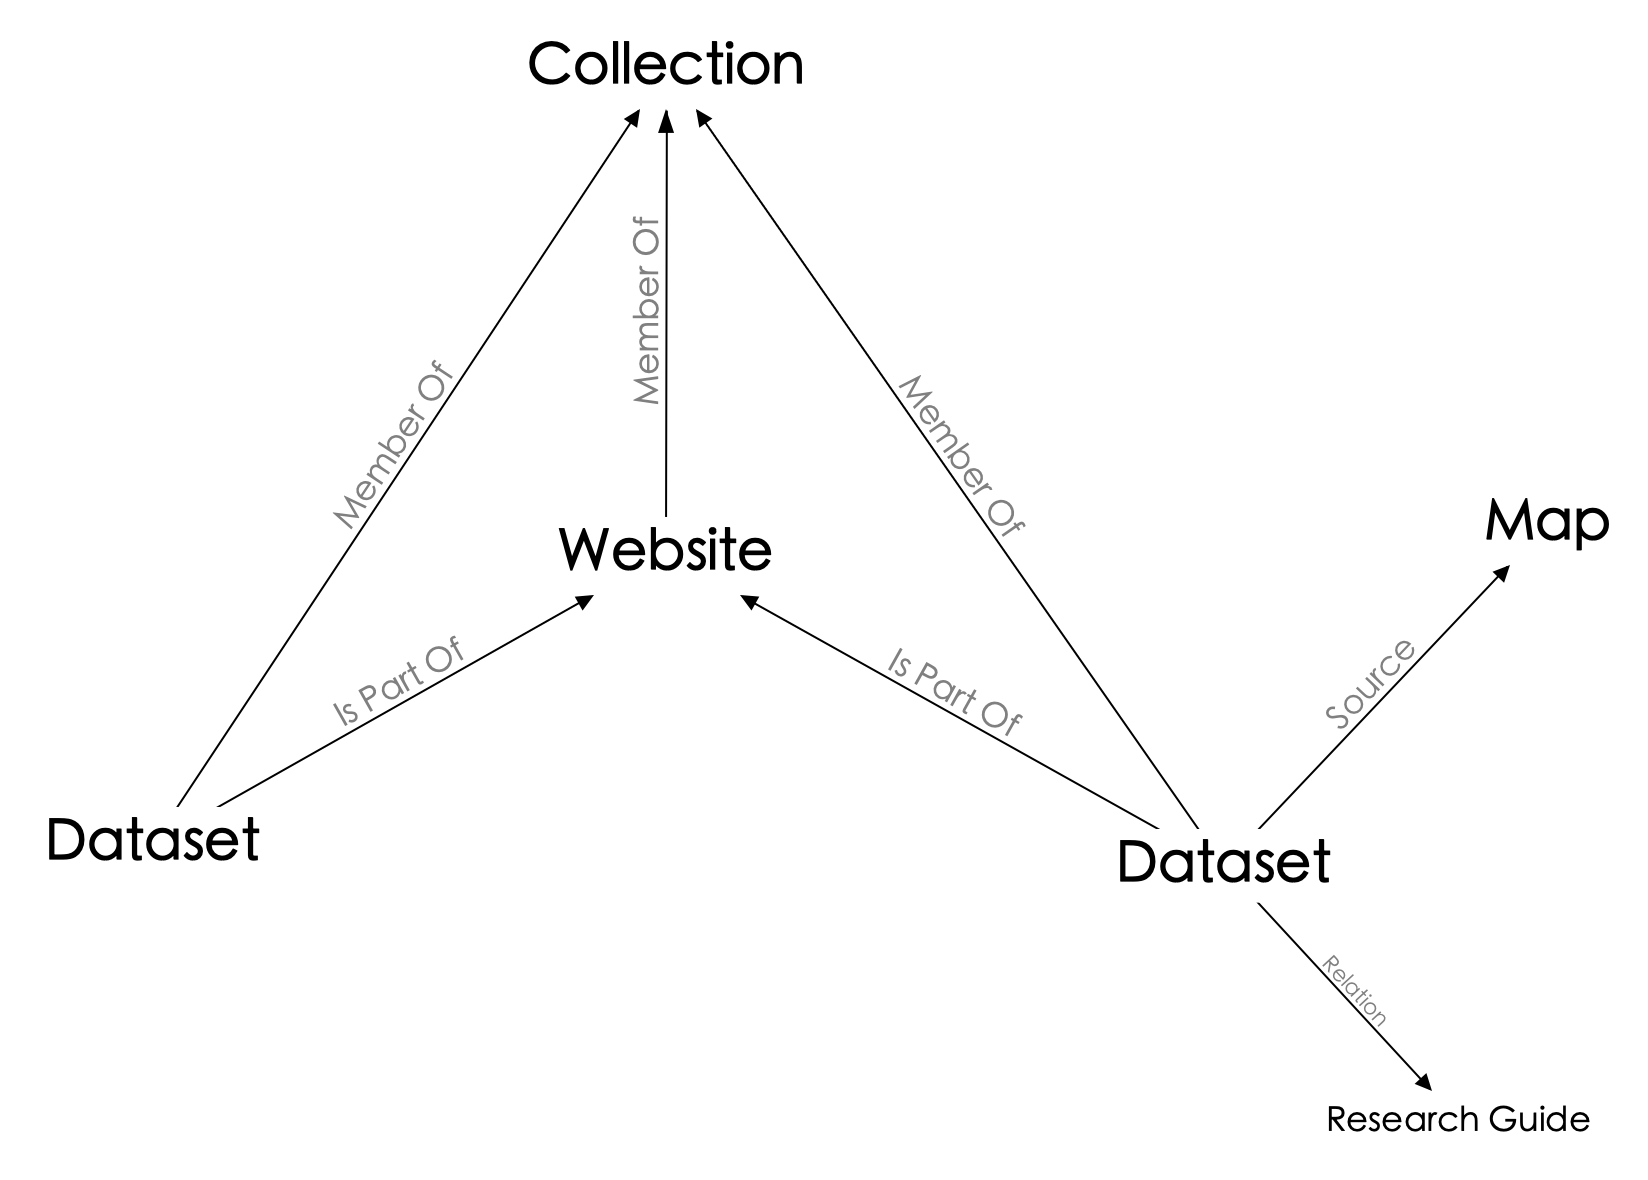
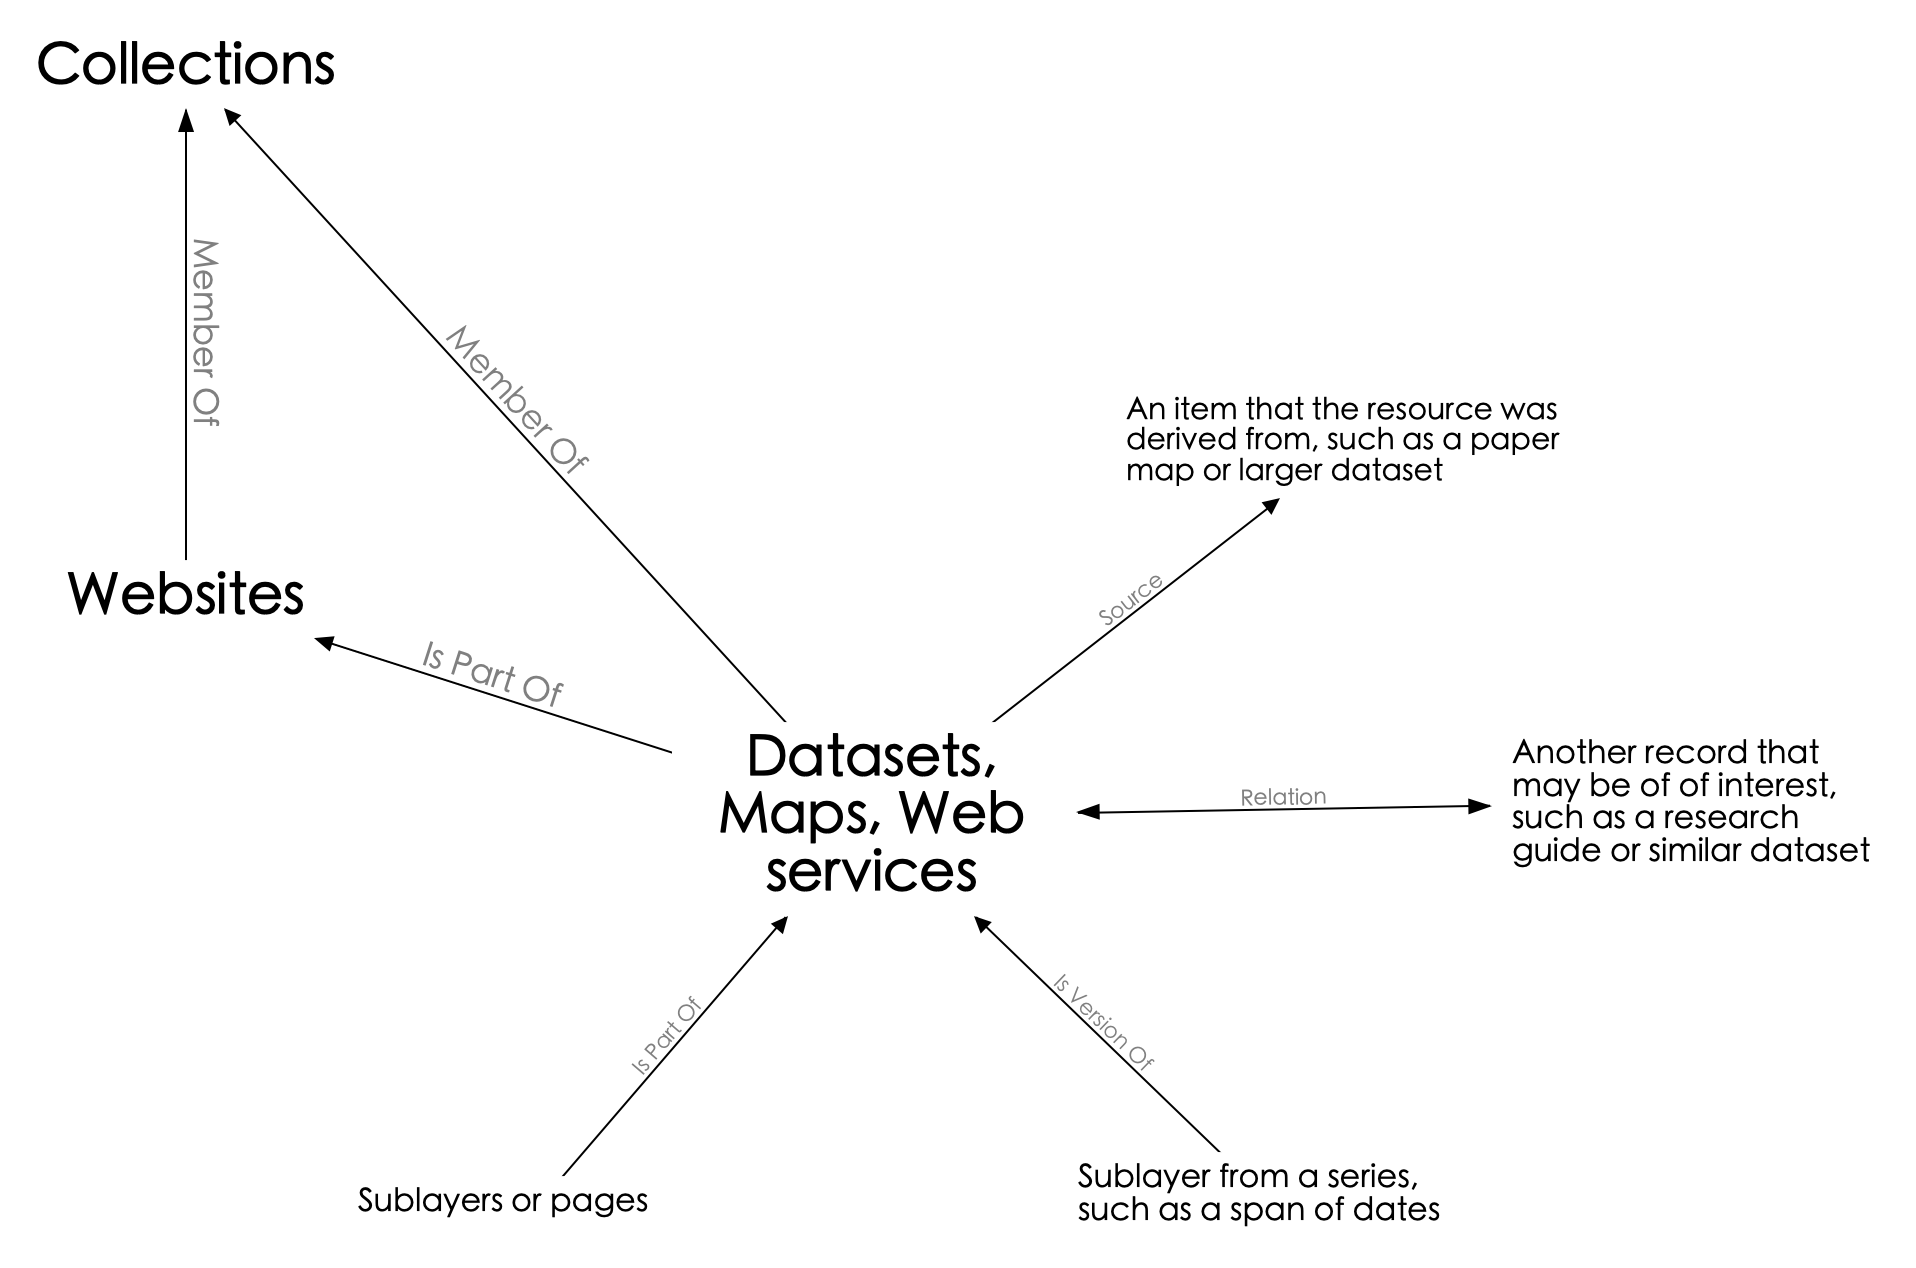
Update relations and diagram

diff --git a/relations.md b/relations.md
@@ -3,83 +3,48 @@
 This document describes how to organize and relate the records in the BTAA Geoportal.
 
 ## Model
-All record entries in GeoBlacklight are of the same type. It does not have separate types of records for collections or groups. It is essentially a flat system, whereby items are related to each other via metadata fields, including “Member Of,” “Is Part Of,” “Is Version Of,” “Replaces,” “Source,” and a general “Relation.” These linked fields can present records as hierarchies with parent/child/grandchild relationships or as siblings. This flexibility allows collections to be nested (i.e., a collection can “belong to” another collection). These relationships can also connect data layers about similar topics from different years within an organization.
 
-The following diagram illustrates how different records are related in the BTAA Geoportal using Resource Classes.
+
+GeoBlacklight organizes records with a network model rather than with a hierarchical model. It is a flat system: every record uses the same metadata fields and appears with the URL of https:geo.btaa.org/catalog/`ID`. Unlike many digital library applications, it does not have separate types of records for entities such as "communities," "collections," or "groups."  
+
+Instead, GeoBlacklight organizes records via relationship-type metadata fields. These fields include `Member Of`, `Is Part Of`, `Is Version Of`, `Source`, and a general `Relation`. This flexibility allows records to be presented in several different ways. For example, records can have multiple parent/child/grandchild/sibling relationships. In addition, they can be nested (i.e., a collection can belong to another collection). They can also connect data layers about similar topics or represent different years in a series.
+
+The following diagram illustrates how the BTAA Geoportal organizes records. The labels reflect each record's Resource Class (**Collections**, **Websites**, **Datasets**, **Maps**, **Web services**). The connecting arrow lines indicate the name of the relationship.
 
 ![Chart](/images/contentOrganization.png)
 
 ## Collections
-The BTAA Geoportal interprets the Resource Class, "Collections," as top-level, custom groupings. 
-These reflect our curation activities and priorities.
+The BTAA Geoportal interprets the Resource Class, **Collections**, as top-level, custom groupings. These reflect our curation activities and priorities.
 
-
-### Relationship Field
-Individual records are linked to Collections using the `Member Of` field. The ID of the parent record is added to the child record only.
-
-### Current Collections
-
-#### General Land Office Township Plats
-Plat drawings created from public land surveys completed in the Big Ten Academic Alliance States.
-
-#### Government Open Geospatial Data Collection
-Open geospatial datasets, web services, interactive maps, and data portals distributed by a federal, state, county, municipal, or regional agency.
-
-#### Indigenous Lands
-Resources and projects that address issues related to indigenous people, territories, reservations, languages, land grants, and more.
-
-#### Libraries Geospatial Data Collection
-Geospatial data that has been curated at academic libraries. Many of the datasets are outputs from research projects or sponsored initiatives. This collection also encompasses government data that was curated and archived at a library.
-The items in this collection are known to have high quality standards metadata and stable access links.
-These records are shared on OpenGeoMetadata under each institution's repository.
-
-#### Libraries Historical Maps Collection
-This collection contains scanned images of historical maps held in libraries.
-The geographic scope of this collection features a concentration on the states in the Big Ten Academic Alliance region, but also includes maps from all over the world. 
-The items in this collection are known to have high quality metadata and stable access links.
-These records are shared on OpenGeoMetadata under each institution's repository.
-
-#### Licensed Resources Collection
-Licensed resources are authorized for use by an individual university, or by multiple universities in the Big Ten Academic Alliance through a subscription. Access to these databases is paid for by an institution for affiliates to use, unlike free public use data.
-
-#### Public Health Dashboards
-Links to dashboards and hubs that track public health statistics related to the Covid-19 Coronavirus pandemic.
-
-#### Research Institutes Geospatial Data Collection
-Resources from various nonprofit institutions, commercial entities, and research repositories. The geographic scope is worldwide. The topical focus includes environment, climate, humanitarian issues, and racial equity.
+Other records are linked to Collections using the `Member Of` field. The ID of the parent record is added to the child record only. View all of the current **Collections** in the geoportal at this link: 
+[https://geo.btaa.org/?f%5Bgbl_resourceClass_sm%5D%5B%5D=Collections](https://geo.btaa.org/?f%5Bgbl_resourceClass_sm%5D%5B%5D=Collections)
 
 ----------------
 ## Websites
-The BTAA Geoportal uses the Resource Class, "Websites," to create parent records for data portals, digital libraries, dashboards, and interactive maps. These often start off as standalone records.
+The BTAA Geoportal uses the Resource Class, **Websites**, to create parent records for data portals, digital libraries, dashboards, and interactive maps. These often start off as standalone records.
 Once the items in a website have been indexed, they will have child records.
 
-### Relationship Field
-Individual data layers, maps, or web services  are linked to the Website they came from using the `Is Part Of` field. The ID of the parent record is added to the child record only.
+Individual **Datasets**, **Maps**, or **Web service**s  are linked to the **Website** they came from using the `Is Part Of` field. The ID of the parent record is added to the child record only.
 
-### Current Websites
-View all of the current websites in the geoportal at this link: [https://geo.btaa.org/?f%5Bgbl_resourceClass_sm%5D%5B%5D=Websites](https://geo.btaa.org/?f%5Bgbl_resourceClass_sm%5D%5B%5D=Websites)
+View all of the current **Websites** in the geoportal at this link: [https://geo.btaa.org/?f%5Bgbl_resourceClass_sm%5D%5B%5D=Websites](https://geo.btaa.org/?f%5Bgbl_resourceClass_sm%5D%5B%5D=Websites)
 
 -----------------
- ## Provider
-The BTAA Geoportal populates the `Provider` field with the name of the website or organization from which the item was harvested.
+## Datasets, Maps, and Web services
+The items in this Resource Class represent individual data layers, scanned map files, and/or geospatial web services. (Some items may have multiple Resource Classes attached to the same record.)
 
-The provider field comes from schema.org, where is is broadly defined as "The service provider, service operator, or service performer; the goods producer."
+This item class is likely to have the most relationships specified in the metadata. A typical **Datasets** record might have the following: 
 
-For many other GeoBlacklight instances, this field is always the name of a university or college and is attached to logo icons. 
+1. `Member Of` a **Collections** record
+2. `Is Part Of` a **Websites** record
+3. If the data was digitized from a paper map in the geoportal, it can be linked to the **Maps** record via the `Source` relation
+4. a general `Relation` to a research guide or similar dataset
 
-### Relationship Field
-This value is inserted as plain text into the Provider field. Most of the time, this will match the value displayed in the Is Part Of widget. 
-
-### Current Providers
-Use the Provider facet on the Geoportal to browse all of the providers.
 
 ------------------
 ## Multipart Items
-Many items in the geoportal are multipart. There may be individual pages from an atlas, sublayers from a larger project, or datasets broken up into more than one download.
-In these cases, the `Is Part Of` field is used. As a result, these items many have more than one record that it Is Part Of: the original website and the parent for the multipart items.
+Many items in the geoportal are multipart. There may be individual pages from an atlas, sublayers from a larger project, or datasets broken up into more than one download. In these cases, the `Is Part Of` field is used. 
 
-### Relationship Field
-First, create a parent record describing the top level work. Individual data layers or pages are linked using the `Is Part Of` field. The ID of the parent record is added to the child record only.
+As a result, these items many have more than one record that it Is Part Of - (1) the original website and (2) the parent for the multipart items.
 
 
 
